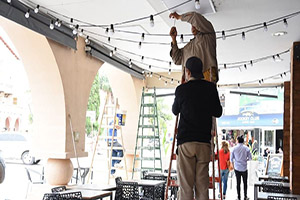
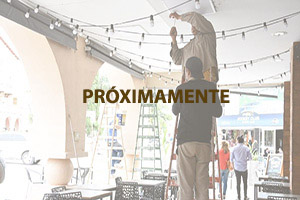
sigo trabajando en la media mobile y a la vez modifique foto de sucursales

diff --git a/css/estilo.css b/css/estilo.css
@@ -128,6 +128,7 @@ nav {
 .cuerpoindex .video .video__texto--2 h3 {
   padding: 5px;
   font-size: 25px;
+  padding-right: 20px;
 }
 .cuerpoindex .video .video__texto--2 h3 p {
   text-align: left;
@@ -165,7 +166,9 @@ nav {
 .cuerpoindex .sucursales h2 {
   font-size: 25px;
   padding: 10px;
-  text-align: center;
+  text-align: left;
+  color: #bc6c25;
+  font-weight: bold;
 }
 .cuerpoindex .sucursales .sucursales__1 {
   display: flex;
@@ -174,19 +177,19 @@ nav {
   align-items: center;
   margin: 10px;
 }
-.cuerpoindex .sucursales .sucursales__1 div {
-  border: double 5px grey;
-  border-radius: 10%;
-  margin: 10px;
-}
 .cuerpoindex .sucursales img {
   padding: 10px;
-  border-radius: 10%;
+  border-radius: 15%;
+}
+.cuerpoindex .sucursales h3 {
+  font-size: 18px;
+  color: #d62828;
+  text-align: center;
+  font-weight: bold;
 }
 .cuerpoindex .sucursales p {
   font-size: 14px;
   text-align: center;
-  font-weight: bolder;
 }
 .cuerpoindex .protocolo {
   -ms-grid-row: 6;
@@ -336,9 +339,10 @@ nav {
   padding: 20px;
 }
 .trabajaconnosotros form {
-  width: 80%;
+  width: 50%;
   margin: auto;
   padding: 20px;
+  text-align: left;
   align-content: center;
   border: ridge 10px grey;
   border-radius: 5%;
@@ -454,7 +458,7 @@ nav {
   color: wheat;
 }
 .cuerpoescuela .fondoteensenamos form {
-  width: 80%;
+  width: 50%;
   margin: auto;
   border: double wheat 5px;
   padding: 5px;
@@ -809,7 +813,7 @@ footer .foter3 .foter3__redes img {
 }
 @media (max-width: 768px) {
   nav a {
-    font-size: 12px;
+    font-size: 10px;
     padding-top: 5px;
   }
 
@@ -837,7 +841,7 @@ footer .foter3 .foter3__redes img {
     flex-direction: column;
   }
   .cuerpoindex .video iframe {
-    width: 350px;
+    width: 300px;
     height: 100;
   }
 
@@ -848,15 +852,22 @@ footer .foter3 .foter3__redes img {
   }
 
   footer .foter3 .foter3__redes img {
-    margin-right: 40px;
-    margin-left: 40px;
+    margin-right: 30px;
+    margin-left: 30px;
   }
 
   .cabeza3 {
     background-position: top;
   }
-  .cabeza3 .trabajaconnosotros form {
-    align-content: center;
+
+  .trabajaconnosotros form {
+    text-align: left;
+    width: 100%;
+    margin: auto;
+    border: none;
+  }
+  .trabajaconnosotros form input {
+    overflow: inherit;
   }
 
   .nuestrapropuesta .nuestrapropuesta__mision {
@@ -891,6 +902,11 @@ footer .foter3 .foter3__redes img {
     background-position: right;
   }
 
+  .cuerpoescuela .fondoteensenamos form {
+    width: 100%;
+    margin: auto;
+  }
+
   .cuerpoescuela .fondoteensenamos p {
     text-align: justify;
   }
@@ -903,7 +919,7 @@ footer .foter3 .foter3__redes img {
     text-align: center;
   }
   .cuerpoescuela .infocurso .infocurso__texto2 h3 {
-    border-left: none;
+    border-right: none;
     border-bottom: grey dotted;
   }
   .cuerpoescuela .infocurso .infocurso__texto3 {
@@ -914,6 +930,9 @@ footer .foter3 .foter3__redes img {
     border-right: none;
     border-bottom: grey dotted;
   }
+  .cuerpoescuela .infocurso .infocurso__texto3 p {
+    border-left: none;
+  }
   .cuerpoescuela .infocurso .infocurso__texto4 {
     flex-direction: column;
     text-align: center;
@@ -923,7 +942,7 @@ footer .foter3 .foter3__redes img {
   }
   .cuerpoescuela .infocurso .infocurso__texto5 td {
     padding: 0;
-    font-size: 12px;
+    font-size: 11px;
   }
   .cuerpoescuela .infocurso .infocurso__texto6 {
     flex-direction: column;

diff --git a/sass/_media.scss b/sass/_media.scss
@@ -1,7 +1,7 @@
 @media (max-width: 768px) {
    nav {
     a {
-      font-size: 12px;
+      font-size: 10px;
       padding-top: 5px;
     }
    }
@@ -23,7 +23,7 @@
     .cuerpoindex .video {
       flex-direction: column;
       iframe {
-        width: 350px;
+        width: 300px;
         height: 100;
       }
     }
@@ -33,16 +33,20 @@
       align-content: center;
     }
     footer .foter3 .foter3__redes img {
-      margin-right: 40px;
-      margin-left: 40px;
+      margin-right: 30px;
+      margin-left: 30px;
       }
     .cabeza3 {
       background-position: top;
-      
-    .trabajaconnosotros form{
-     align-content: center;
-      
     }
+    .trabajaconnosotros form {
+      text-align: left;
+      width: 100%;
+      margin: auto;
+      border: none;
+      input {
+       overflow: inherit;
+      }
     }
     .nuestrapropuesta .nuestrapropuesta__mision {
       flex-direction: column;
@@ -72,6 +76,10 @@
     .cuerpoescuela .cabeza4 {
       background-position: right;
     } 
+    .cuerpoescuela .fondoteensenamos form {
+      width: 100%;
+      margin: auto;
+    }
     .cuerpoescuela .fondoteensenamos p {
       text-align: justify;
     }
@@ -83,7 +91,7 @@
         flex-direction: column;
         text-align: center;
         h3 {
-        border-left: none;
+        border-right: none;
         border-bottom:  grey dotted;
       }
       }
@@ -94,6 +102,9 @@
         border-right: none;
         border-bottom: grey dotted;
       }
+      p {
+        border-left: none;
+      }
       }
       .infocurso__texto4 {
         flex-direction: column;
@@ -103,7 +114,7 @@
         flex-direction: column;
         td {
           padding: 0;
-          font-size: 12px;
+          font-size: 11px;
         }
 
       }

diff --git a/index.html b/index.html
@@ -59,32 +59,32 @@
     <a href="http://www.whatsapp.com"><img src="imagenes/whatsapp.png" alt="whatsapp"></a>
 </section>
 <section class="sucursales">
-        <h2>Conoce Nuestras Sucursales</h2>
+        <h2>Nuestras Sucursales</h2>
     <div class="sucursales__1">
         <div>
         <img src="imagenes/local1.jpg" alt="">
-        <p> <img src="imagenes/ubicacion.png"> Sucursal Palermo</p>
+        <h3> <img src="imagenes/ubicacion.png"> Sucursal Palermo</h3>
         <p>Honduras 4700</p>
     </div>
     <div>
         <img src="imagenes/local2.jpg" alt="">
-        <p> <img src="imagenes/ubicacion.png"> Sucursal Nuñez</p>
+        <h3> <img src="imagenes/ubicacion.png"> Sucursal Nuñez</h3>
         <p>Crisologo Larralde 1600</p>
     </div>
     <div>
         <img src="imagenes/local4.jpg" alt="">
-        <p> <img src="imagenes/ubicacion.png"> Sucursal Caballito</p>
+        <h3> <img src="imagenes/ubicacion.png"> Sucursal Caballito</h3>
         <p>Av. Acoyte 100</p>
     </div>
     <div>
         <img src="imagenes/local7.jpg" alt="">
-        <p> <img src="imagenes/ubicacion.png"> Sucursal Villa Urquiza</p>
+        <h3> <img src="imagenes/ubicacion.png"> Sucursal Villa Urquiza</h3>
         <p>Dr. Pedro ignacio Rivera 4900</p>
     </div>
     <div>
         <img src="imagenes/local8.jpg" alt="">
-        <p> <img src="imagenes/ubicacion.png"> Proximamente</p>
-        <p>Sucursal Belgrano</p>
+        <h3> <img src="imagenes/ubicacion.png"> Sucursal Belgrano</h3>
+        <p>Echeverria 2506</p>
     </div>
     </div>
 </section>

diff --git a/sass/_principal.scss b/sass/_principal.scss
@@ -82,6 +82,7 @@ grid-template-areas:
         h3 {
             padding: 5px;
             font-size: $tamañotitulo;
+            padding-right: 20px;
         p {
             text-align: left;
             font-size: $tamañoparrafo;
@@ -118,7 +119,9 @@ grid-template-areas:
     h2 {
         font-size: $tamañotitulo;
         padding: 10px;
-        text-align: center;
+        text-align: left;
+        color: #bc6c25;
+        font-weight: bold;
     }
     
     .sucursales__1 {
@@ -127,20 +130,20 @@ grid-template-areas:
         justify-content: space-evenly;
         align-items: center;
         margin: 10px;
-    div {
-        border: double 5px grey;
-        border-radius: 10%;
-        margin: 10px;
-    }
     }
     img {
         padding: 10px;
-        border-radius: 10%;
+        border-radius: 15%;
+    }
+    h3 {
+        font-size: 18px;
+        color: #d62828;
+        text-align: center;
+        font-weight: bold;
     }
     p {
         font-size: $tamañoparrafo;
         text-align: center;
-        font-weight: bolder;
     }
 }
 .protocolo {

diff --git a/sass/_trabajaconnosotros.scss b/sass/_trabajaconnosotros.scss
@@ -22,9 +22,10 @@
           padding: 20px;
       }
       form {
-          width: 80%;
+          width: 50%;
           margin: auto;
           padding: 20px;
+          text-align: left;
           align-content: center;
           border: ridge 10px grey;
           border-radius: 5%;

diff --git a/sass/_escuela.scss b/sass/_escuela.scss
@@ -33,7 +33,7 @@
             color: wheat;
         }
         form {
-            width: 80%;
+            width: 50%;
             margin: auto;
             border: double wheat 5px;
             padding: 5px;
